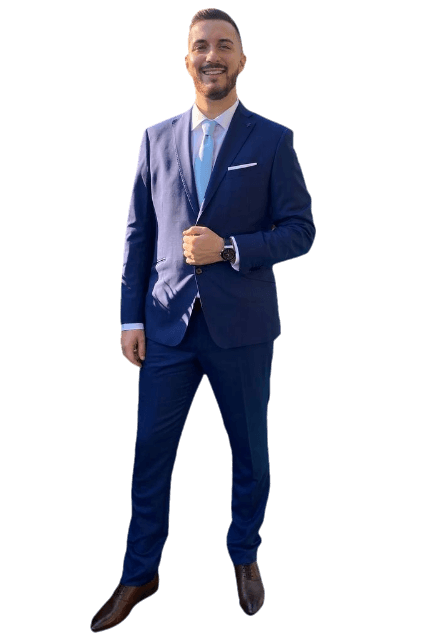
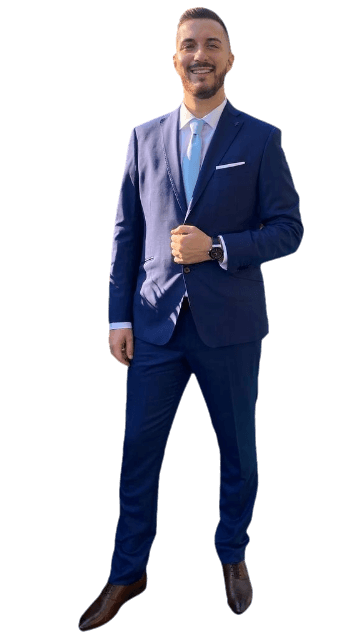
Chenaged resume img

Changed region(s): [[0.2, 0.0, 0.8857, 1.0]]

diff --git a/index.html b/index.html
@@ -39,7 +39,7 @@
                 </div>
                 <div id="resume">
                     <div id="resumeImage">
-                        <img src="/data/imgs/Resume/meCbr.png" id="meImg">
+                        <img src="/data/imgs/Resume/meResume.png" id="meImg">
                     </div>
                     <div id="resumeContent">
                         <div id="companiesContent">
@@ -49,10 +49,10 @@
                                     <img src="data/imgs/Resume/meeit.png" alt="">
                                 </div>
                                 <div id="meeitContent">
-                                    <div class="text">
+                                    <h5>
                                         During my degree program, I completed an internship with Mee-it, where I
                                         developed a web platform for commercializing sectional doors.
-                                    </div>
+                                    </h5>
                                 </div>
                             </div>
 
@@ -61,10 +61,10 @@
                                     <img src="data/imgs/Resume/adentis.png" alt="">
                                 </div>
                                 <div id="adentisContent">
-                                    <div class="text">
+                                    <h5>
                                         I worked on a project focused on maintaining and developing
                                         online call center software.
-                                    </div>
+                                    </h5>
                                 </div>
                             </div>
                         </div>
@@ -74,13 +74,11 @@
                                     <h3>Degree:</h3>
                                     <div id="degreeContent">
                                         <img src="data/imgs/Resume/isec.png" alt="">
-                                        <div class="text">
-                                            <p>
-                                                I have a bachelor's degree at Coimbra Institute of Engineering (ISEC),
-                                                graduating in
-                                                computer engineering.
-                                            </p>
-                                        </div>
+                                        <h5>
+                                            I have a bachelor's degree at Coimbra Institute of Engineering (ISEC),
+                                            graduating in
+                                            computer engineering.
+                                        </h5>
                                     </div>
                                 </div>
 

diff --git a/index.scss b/index.scss
@@ -120,6 +120,26 @@ body {
         height: 20%;
     }
 
+    h1 {
+        color: #5e5e5e;
+        font-family: Georgia, 'Times New Roman', Times, serif;
+    }
+
+    h3 {
+        color: #5e5e5e;
+
+    }
+
+    h4 {
+        margin-top: 5px;
+        color: #797979;
+    }
+
+    h5 {
+        margin-top: 5px;
+        color: #979797;
+    }
+
     #home {
         background-image: url(/data/imgs/Background/backgroundHome.jpg);
         background-repeat: no-repeat;
@@ -149,26 +169,6 @@ body {
         p {
             text-align: center;
         }
-
-        h1 {
-            color: #5e5e5e;
-            font-family: Georgia, 'Times New Roman', Times, serif;
-        }
-
-        h3 {
-            color: #5e5e5e;
-
-        }
-
-        h4 {
-            margin-top: 5px;
-            color: #797979;
-        }
-
-        h5 {
-            margin-top: 5px;
-            color: #979797;
-        }
     }
 
     #resume {
@@ -181,11 +181,11 @@ body {
         flex-direction: row;
 
         #resumeImage {
-            width: 50%;
+            width: 30%;
             margin: 1em;
 
             img {
-                height: 30%;
+                height: 50%;
             }
         }
 
@@ -204,6 +204,11 @@ body {
 
                 h3 {
                     margin-top: 1em;
+                }
+
+                h5 {
+                    height: 50%;
+                    margin-left: 2em;
                 }
 
                 img {
@@ -235,7 +240,7 @@ body {
 
                 img {
                     all: unset;
-                    width: 7em;
+                    width: 5em;
                 }
 
                 #educationContent {
@@ -254,9 +259,8 @@ body {
                             flex-direction: row;
                             align-items: center;
 
-                            .text {
-                                height: 50%;
-                                margin: 10px;
+                            h5 {
+                                margin-left: 2em;
                             }
                         }
                     }

diff --git a/index.css b/index.css
@@ -101,6 +101,21 @@ body {
   letter-spacing: 1px;
   height: 20%;
 }
+.main h1 {
+  color: #5e5e5e;
+  font-family: Georgia, "Times New Roman", Times, serif;
+}
+.main h3 {
+  color: #5e5e5e;
+}
+.main h4 {
+  margin-top: 5px;
+  color: #797979;
+}
+.main h5 {
+  margin-top: 5px;
+  color: #979797;
+}
 .main #home {
   background-image: url(/data/imgs/Background/backgroundHome.jpg);
   background-repeat: no-repeat;
@@ -127,21 +142,6 @@ body {
 .main #home p {
   text-align: center;
 }
-.main #home h1 {
-  color: #5e5e5e;
-  font-family: Georgia, "Times New Roman", Times, serif;
-}
-.main #home h3 {
-  color: #5e5e5e;
-}
-.main #home h4 {
-  margin-top: 5px;
-  color: #797979;
-}
-.main #home h5 {
-  margin-top: 5px;
-  color: #979797;
-}
 .main #resume {
   background-image: url(/data/imgs/Background/backgroundResume.jpeg);
   background-repeat: no-repeat;
@@ -151,11 +151,11 @@ body {
   flex-direction: row;
 }
 .main #resume #resumeImage {
-  width: 50%;
+  width: 30%;
   margin: 1em;
 }
 .main #resume #resumeImage img {
-  height: 30%;
+  height: 50%;
 }
 .main #resume #resumeContent {
   display: flex;
@@ -172,6 +172,10 @@ body {
 }
 .main #resume #resumeContent #companiesContent h3 {
   margin-top: 1em;
+}
+.main #resume #resumeContent #companiesContent h5 {
+  height: 50%;
+  margin-left: 2em;
 }
 .main #resume #resumeContent #companiesContent img {
   width: 5em;
@@ -197,7 +201,7 @@ body {
 }
 .main #resume #resumeContent #languageAndEducationContent img {
   all: unset;
-  width: 7em;
+  width: 5em;
 }
 .main #resume #resumeContent #languageAndEducationContent #educationContent {
   display: flex;
@@ -215,9 +219,8 @@ body {
   flex-direction: row;
   align-items: center;
 }
-.main #resume #resumeContent #languageAndEducationContent #educationContent #degree #degreeContent .text {
-  height: 50%;
-  margin: 10px;
+.main #resume #resumeContent #languageAndEducationContent #educationContent #degree #degreeContent h5 {
+  margin-left: 2em;
 }
 .main #resume #resumeContent #languageAndEducationContent #languageAndCertifications {
   display: flex;
